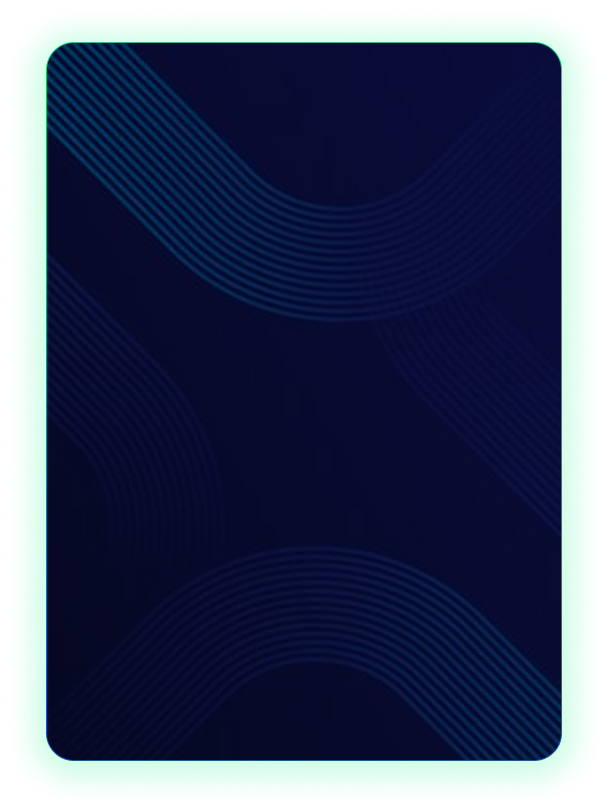
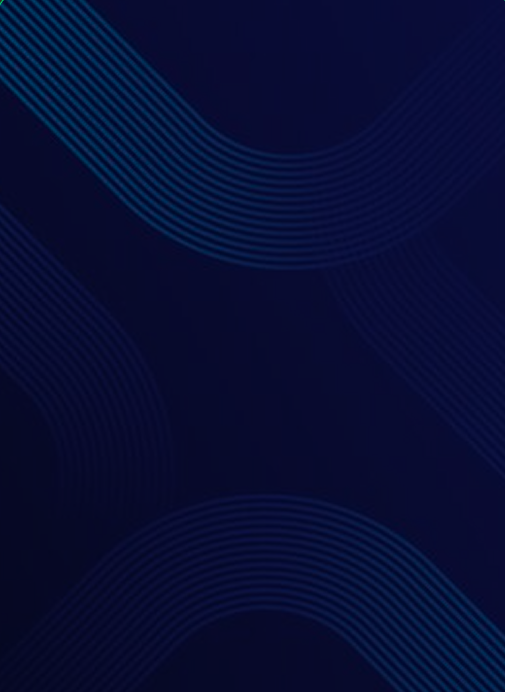
fixed map part

diff --git a/Contact.html b/Contact.html
@@ -253,15 +253,15 @@
           background-repeat: no-repeat;
   ">
   <!-- Heading Our Location -->
-<div class="flex w-64 absolute -bottom-16 left-1/2 -translate-x-1/2 justify-center mb-8">
+<div class="flex w-64 md:w-72 lg:w-80 absolute -bottom-14 left-1/2 -translate-x-1/2 -translate-y-1/2 justify-center z-30">
+  <h1 
+    class="w-full py-3 text-center text-xl md:text-2xl lg:text-3xl font-medium text-white shadow-lg bg-gradient-to-r from-[#00A859] to-[#0B44B7]"
+    style="clip-path: polygon(7% 0%, 93% 0%, 100% 50%, 93% 100%, 7% 100%, 0% 50%);"
+  >
+    Our Location
+  </h1>
+</div>
 
-      <h1 
-        class="w-full py-3 text-center text-2xl md:text-3xl lg:text-4xl font-medium text-white shadow-lg bg-gradient-to-r from-[#00A859] to-[#0B44B7]"
-        style="clip-path: polygon(7% 0%, 93% 0%, 100% 50%, 93% 100%, 7% 100%, 0% 50%);"
-      >
-Our Location
-      </h1>
-    </div>
   <!-- Main Container -->
   <div class="container mx-auto px-4 2xl:px-0 grid grid-cols-1 lg:grid-cols-2 items-stretch justify-items-center gap-8 lg:gap-10 px-4">
 
@@ -356,7 +356,7 @@ Contact Information
     
     <div class="w-full flex justify-center h-full">
   <div 
-    class="w-full rounded-3xl border border-[#102A45] shadow-[0_0_30px_rgba(0,163,255,0.15)] p-6 sm:p-8 lg:p-10 h-full flex flex-col"
+    class="w-full rounded-3xl border border-[#102A45] shadow-[0_0_30px_rgba(0,163,255,0.15)] p-6 md:p-4 lg:p-6 h-full flex flex-col"
     style="
       background-image: url('./asstes/image/Contact-Information-img/2nd-bg.png');
       background-size: cover;
@@ -366,7 +366,7 @@ Contact Information
   >
     
     <!-- Heading -->
-    <div class="flex justify-center mt-8 mb-8">
+    <div class="flex justify-center mb-8">
       <h1 
         class="w-full py-3 text-center text-xl sm:text-2xl font-semibold text-white shadow-lg bg-gradient-to-r from-[#00A859] to-[#0B44B7]"
         style="clip-path: polygon(7% 0%, 93% 0%, 100% 50%, 93% 100%, 7% 100%, 0% 50%);"
@@ -507,8 +507,8 @@ Contact Information
 
       </section>
       <!-- Our Location -->
-      <section
-  class="relative w-full  h-96 md:h-96 lg:h-96 overflow-hidden"
+<section
+  class="relative w-full h-[400px] md:h-[450px] lg:h-[500px] overflow-hidden"
   style="
     background-image: url('./asstes/image/Our-Location-img/location-bg.png');
     background-size: cover;
@@ -517,24 +517,28 @@ Contact Information
   "
 >
 
-  
-  <div class=" flex justify-center items-center">
-    <!-- Top location Image -->
+
+
+  <!-- Centered Location Pin & Area -->
+  <div class="absolute top-1/2 left-1/2 -translate-x-1/2 -translate-y-1/2 flex flex-col items-center justify-center">
+    
+    <!-- Top location Image (Pin) -->
     <img 
       src="./asstes/image/Our-Location-img/location-top.png" 
-      class="absolute top-40 left-140  w-32 h-32 z-20 pointer-events-none" 
-      alt="location"
+      class="w-24 h-24 md:w-32 md:h-32 z-20 " 
+      alt="location pin"
     >
-   <!--  area Image -->
+    
+    <!-- area Image (Green/White Shadow Round) -->
     <img 
       src="./asstes/image/Our-Location-img/location-round.png" 
-      class="absolute top-56 left-140  w-32 h-32 z-10 pointer-events-none" 
-      alt="location area "
+      class="w-28 h-28 md:w-36 md:h-36 z-10 pointer-events-none -mt-16 opacity-90" 
+      alt="location area"
     >
+    
   </div>
-  
+</section>
 
-      </section>
       
     </main>
     <!-- footer -->
